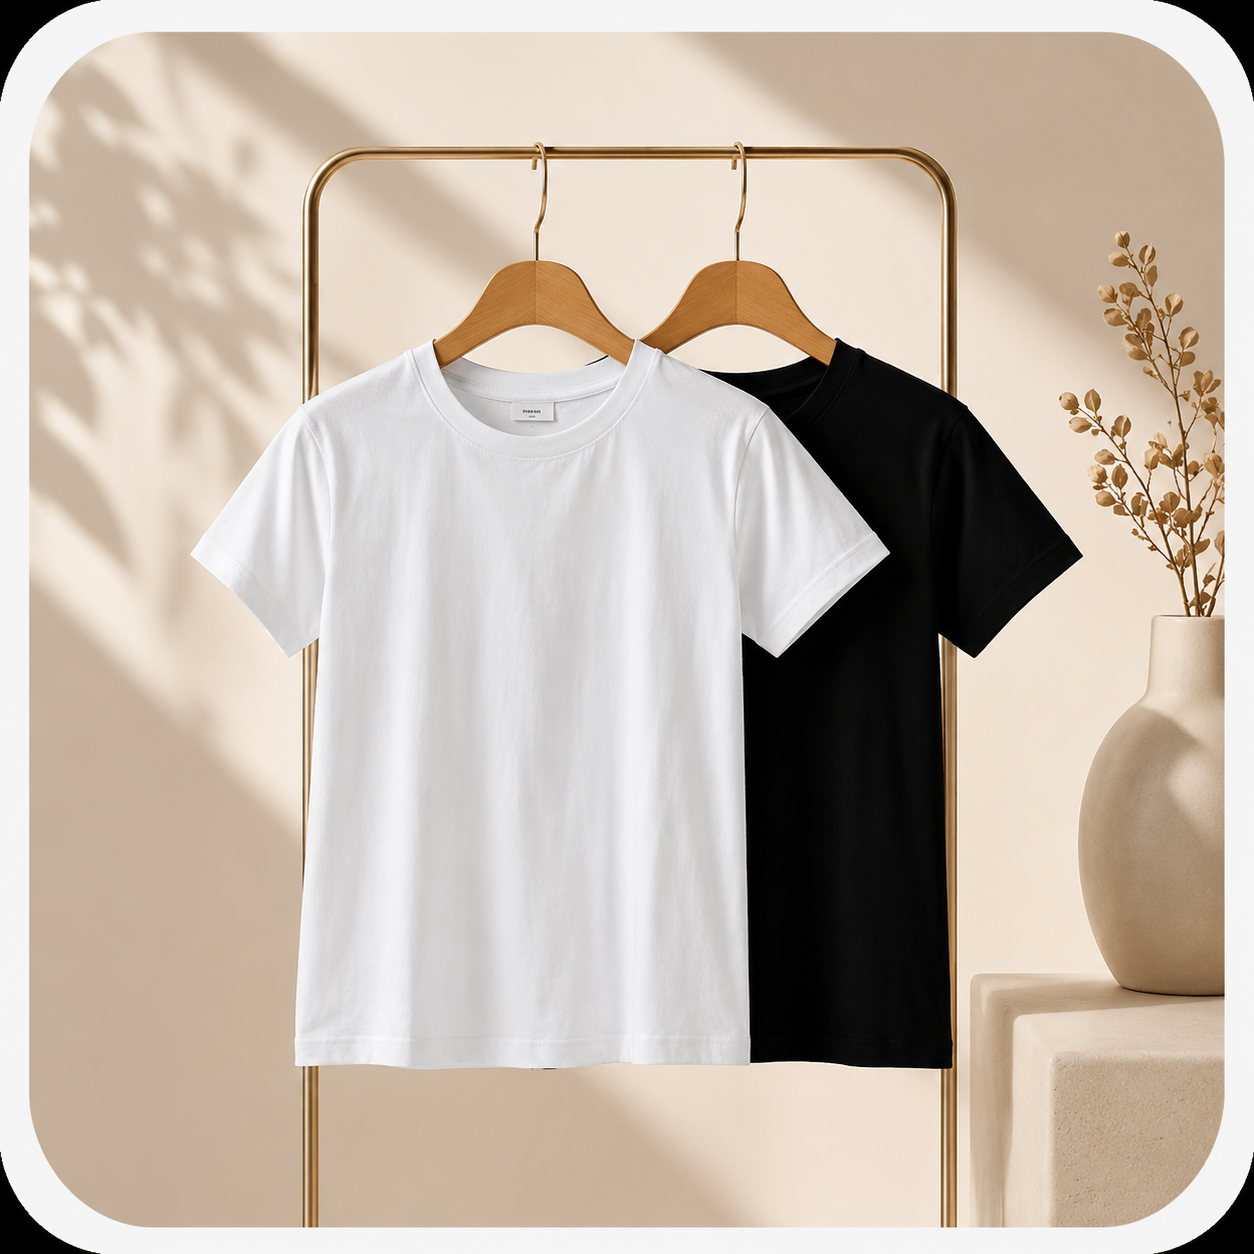
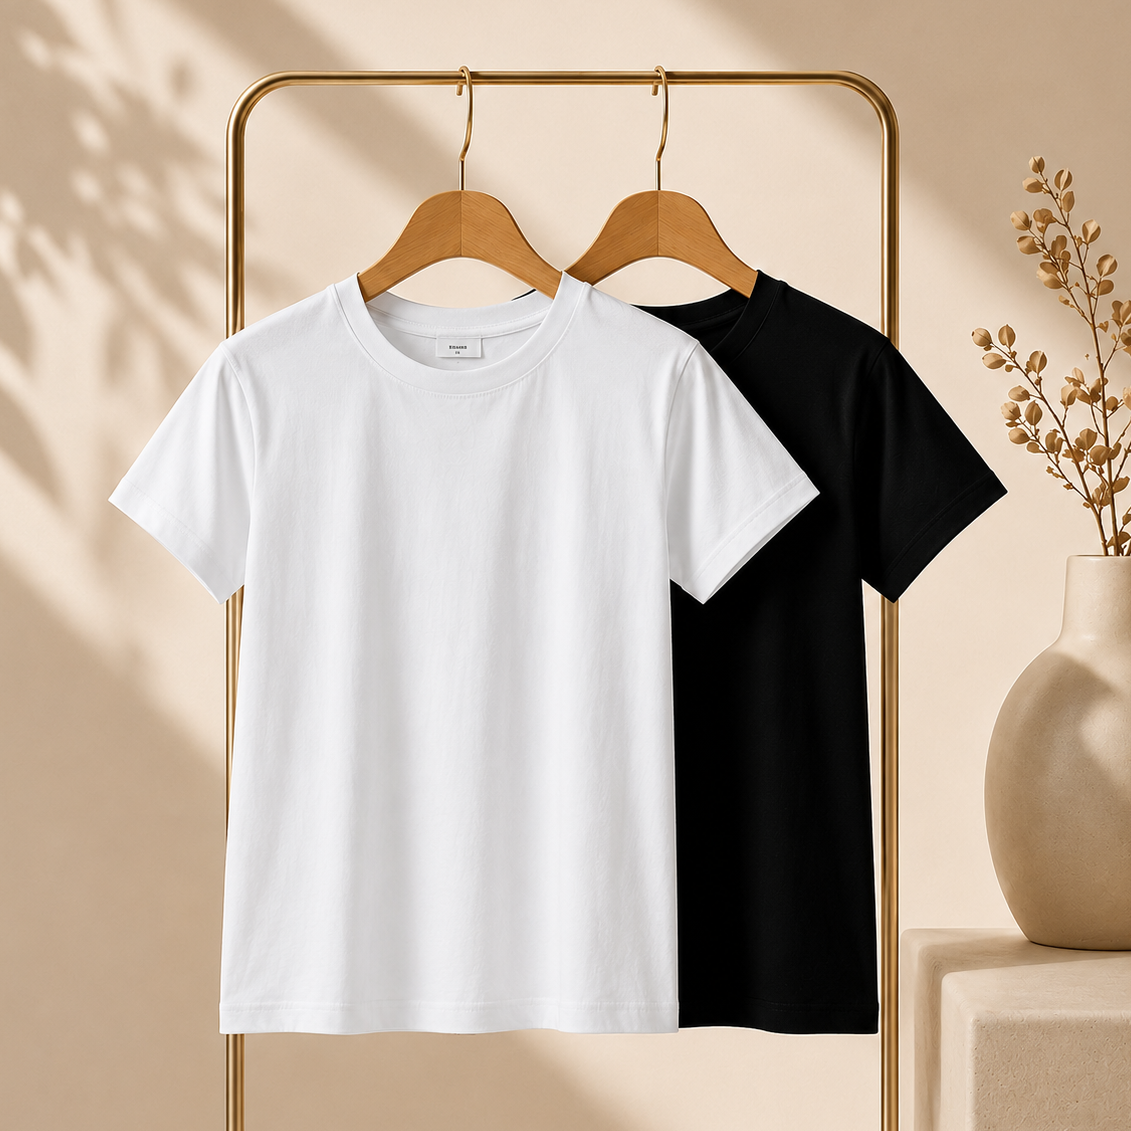
update

diff --git a/admin.html b/admin.html
@@ -61,12 +61,7 @@
                     </svg>
                     Products
                 </a>
-                <a href="#orders" class="sidebar-link" data-section="orders">
-                    <svg width="18" height="18" viewBox="0 0 24 24" fill="none" stroke="currentColor" stroke-width="1.5">
-                        <path d="M14 2H6a2 2 0 0 0-2 2v16a2 2 0 0 0 2 2h12a2 2 0 0 0 2-2V8z"/><polyline points="14 2 14 8 20 8"/><line x1="16" y1="13" x2="8" y2="13"/><line x1="16" y1="17" x2="8" y2="17"/>
-                    </svg>
-                    Orders
-                </a>
+               
                 <a href="#settings" class="sidebar-link" data-section="settings">
                     <svg width="18" height="18" viewBox="0 0 24 24" fill="none" stroke="currentColor" stroke-width="1.5">
                         <circle cx="12" cy="12" r="3"/><path d="M19.4 15a1.65 1.65 0 0 0 .33 1.82l.06.06a2 2 0 0 1 0 2.83 2 2 0 0 1-2.83 0l-.06-.06a1.65 1.65 0 0 0-1.82-.33 1.65 1.65 0 0 0-1 1.51V21a2 2 0 0 1-2 2 2 2 0 0 1-2-2v-.09A1.65 1.65 0 0 0 9 19.4a1.65 1.65 0 0 0-1.82.33l-.06.06a2 2 0 0 1-2.83 0 2 2 0 0 1 0-2.83l.06-.06a1.65 1.65 0 0 0 .33-1.82 1.65 1.65 0 0 0-1.51-1H3a2 2 0 0 1-2-2 2 2 0 0 1 2-2h.09A1.65 1.65 0 0 0 4.6 9a1.65 1.65 0 0 0-.33-1.82l-.06-.06a2 2 0 0 1 0-2.83 2 2 0 0 1 2.83 0l.06.06a1.65 1.65 0 0 0 1.82.33H9a1.65 1.65 0 0 0 1-1.51V3a2 2 0 0 1 2-2 2 2 0 0 1 2 2v.09a1.65 1.65 0 0 0 1 1.51 1.65 1.65 0 0 0 1.82-.33l.06-.06a2 2 0 0 1 2.83 0 2 2 0 0 1 0 2.83l-.06.06a1.65 1.65 0 0 0-.33 1.82V9a1.65 1.65 0 0 0 1.51 1H21a2 2 0 0 1 2 2 2 2 0 0 1-2 2h-.09a1.65 1.65 0 0 0-1.51 1z"/>
@@ -119,17 +114,7 @@
                             <span class="stat-label">Total Products</span>
                         </div>
                     </div>
-                    <div class="stat-card glass">
-                        <div class="stat-icon">
-                            <svg width="24" height="24" viewBox="0 0 24 24" fill="none" stroke="currentColor" stroke-width="1.5">
-                                <path d="M14 2H6a2 2 0 0 0-2 2v16a2 2 0 0 0 2 2h12a2 2 0 0 0 2-2V8z"/><polyline points="14 2 14 8 20 8"/>
-                            </svg>
-                        </div>
-                        <div class="stat-info">
-                            <span class="stat-value" id="totalOrders">0</span>
-                            <span class="stat-label">Total Orders</span>
-                        </div>
-                    </div>
+                
                     <div class="stat-card glass">
                         <div class="stat-icon">
                             <svg width="24" height="24" viewBox="0 0 24 24" fill="none" stroke="currentColor" stroke-width="1.5">
@@ -141,17 +126,7 @@
                             <span class="stat-label">Revenue</span>
                         </div>
                     </div>
-                    <div class="stat-card glass">
-                        <div class="stat-icon">
-                            <svg width="24" height="24" viewBox="0 0 24 24" fill="none" stroke="currentColor" stroke-width="1.5">
-                                <path d="M17 21v-2a4 4 0 0 0-4-4H5a4 4 0 0 0-4 4v2"/><circle cx="9" cy="7" r="4"/><path d="M23 21v-2a4 4 0 0 0-3-3.87"/><path d="M16 3.13a4 4 0 0 1 0 7.75"/>
-                            </svg>
-                        </div>
-                        <div class="stat-info">
-                            <span class="stat-value" id="totalCustomers">0</span>
-                            <span class="stat-label">Customers</span>
-                        </div>
-                    </div>
+                  
                 </div>
                 <div class="dashboard-grid">
                     <div class="dashboard-card glass">
@@ -207,33 +182,7 @@
                 </div>
             </section>
 
-            <!-- Orders Section -->
-            <section class="admin-section" id="section-orders">
-                <div class="section-header">
-                    <h1>Orders</h1>
-                    <p>View and manage customer orders</p>
-                </div>
-                <div class="table-container glass">
-                    <table class="data-table" id="ordersTable">
-                        <thead>
-                            <tr>
-                                <th>Order ID</th>
-                                <th>Customer</th>
-                                <th>Product</th>
-                                <th>Amount</th>
-                                <th>Date</th>
-                                <th>Status</th>
-                            </tr>
-                        </thead>
-                        <tbody id="ordersTableBody">
-                            <tr class="empty-row">
-                                <td colspan="6">No orders yet.</td>
-                            </tr>
-                        </tbody>
-                    </table>
-                </div>
-            </section>
-
+        
             <!-- Settings Section -->
             <section class="admin-section" id="section-settings">
                 <div class="section-header">

diff --git a/shop.html b/shop.html
@@ -252,7 +252,7 @@
                     <p class="modal-price">$0.00</p>
                     <p class="modal-description">Product description will appear here.</p>
                     <div class="modal-actions">
-                        <a href="#" class="btn btn-primary btn-whatsapp" id="orderBtn">
+                        <a href="https://wa.me/12424411311" class="btn btn-primary btn-whatsapp" id="orderBtn">
                             <svg width="18" height="18" viewBox="0 0 24 24" fill="currentColor">
                                 <path d="M17.472 14.382c-.297-.149-1.758-.867-2.03-.967-.273-.099-.471-.148-.67.15-.197.297-.767.966-.94 1.164-.173.199-.347.223-.644.075-.297-.15-1.255-.463-2.39-1.475-.883-.788-1.48-1.761-1.653-2.059-.173-.297-.018-.458.13-.606.134-.133.298-.347.446-.52.149-.174.198-.298.298-.497.099-.198.05-.371-.025-.52-.075-.149-.669-1.612-.916-2.207-.242-.579-.487-.5-.669-.51-.173-.008-.371-.01-.57-.01-.198 0-.52.074-.792.372-.272.297-1.04 1.016-1.04 2.479 0 1.462 1.065 2.875 1.213 3.074.149.198 2.096 3.2 5.077 4.487.709.306 1.262.489 1.694.625.712.227 1.36.195 1.871.118.571-.085 1.758-.719 2.006-1.413.248-.694.248-1.289.173-1.413-.074-.124-.272-.198-.57-.347m-5.421 7.403h-.004a9.87 9.87 0 01-5.031-1.378l-.361-.214-3.741.982.998-3.648-.235-.374a9.86 9.86 0 01-1.51-5.26c.001-5.45 4.436-9.884 9.888-9.884 2.64 0 5.122 1.03 6.988 2.898a9.825 9.825 0 012.893 6.994c-.003 5.45-4.437 9.884-9.885 9.884m8.413-18.297A11.815 11.815 0 0012.05 0C5.495 0 .16 5.335.157 11.892c0 2.096.547 4.142 1.588 5.945L.057 24l6.305-1.654a11.882 11.882 0 005.683 1.448h.005c6.554 0 11.89-5.335 11.893-11.893a11.821 11.821 0 00-3.48-8.413z"/>
                             </svg>

diff --git a/contact.html b/contact.html
@@ -91,7 +91,9 @@
                                 </div>
                                 <div class="method-details">
                                     <span class="method-label">Phone</span>
-                                    <a href="tel:+1234567890">+1 (234) 567-890</a>
+                                   <a href="https://wa.me/12424411311" target="_blank">
+ 12424411311
+</a>
                                 </div>
                             </div>
                             <div class="contact-method">
@@ -113,7 +115,7 @@
                                 </div>
                                 <div class="method-details">
                                     <span class="method-label">WhatsApp</span>
-                                    <a href="https://wa.me/1234567890" target="_blank">Chat with us</a>
+                                    <a href="https://wa.me/12424411311" target="_blank">Chat with us</a>
                                 </div>
                             </div>
                         </div>

diff --git a/css/style.css b/css/style.css
@@ -1224,7 +1224,8 @@ input, select, textarea {
 .page-header-bg {
     position: absolute;
     inset: 0;
-    background: var(--deep-royal);
+    background: url('/images/hero.png') no-repeat center center;
+    background-size: cover;
 }
 
 .page-header-bg::after {

diff --git a/css/admin.css b/css/admin.css
@@ -1216,7 +1216,7 @@
     }
     
     .stats-cards {
-        grid-template-columns: repeat(4, 1fr);
+        grid-template-columns: repeat(2, 1fr);
         gap: 1rem;
     }
     
